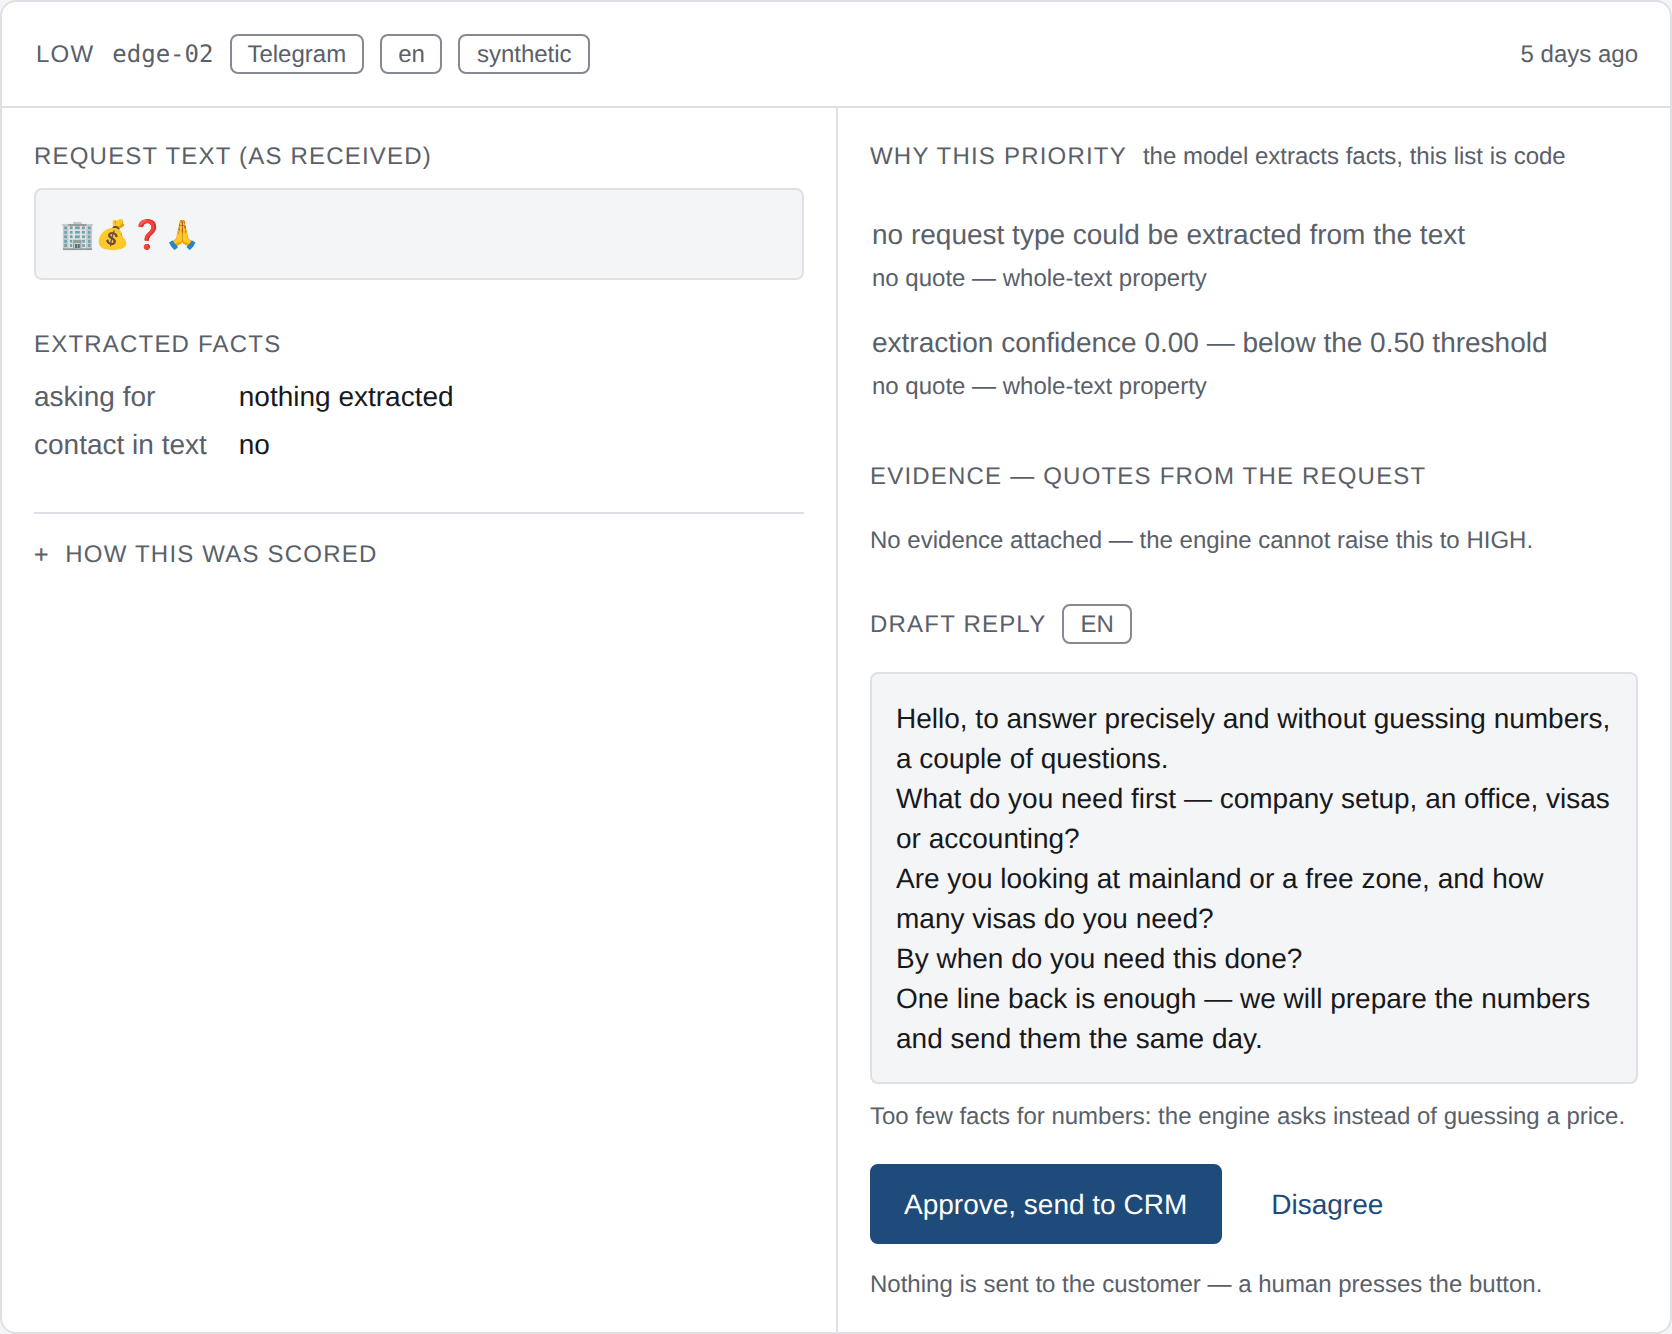
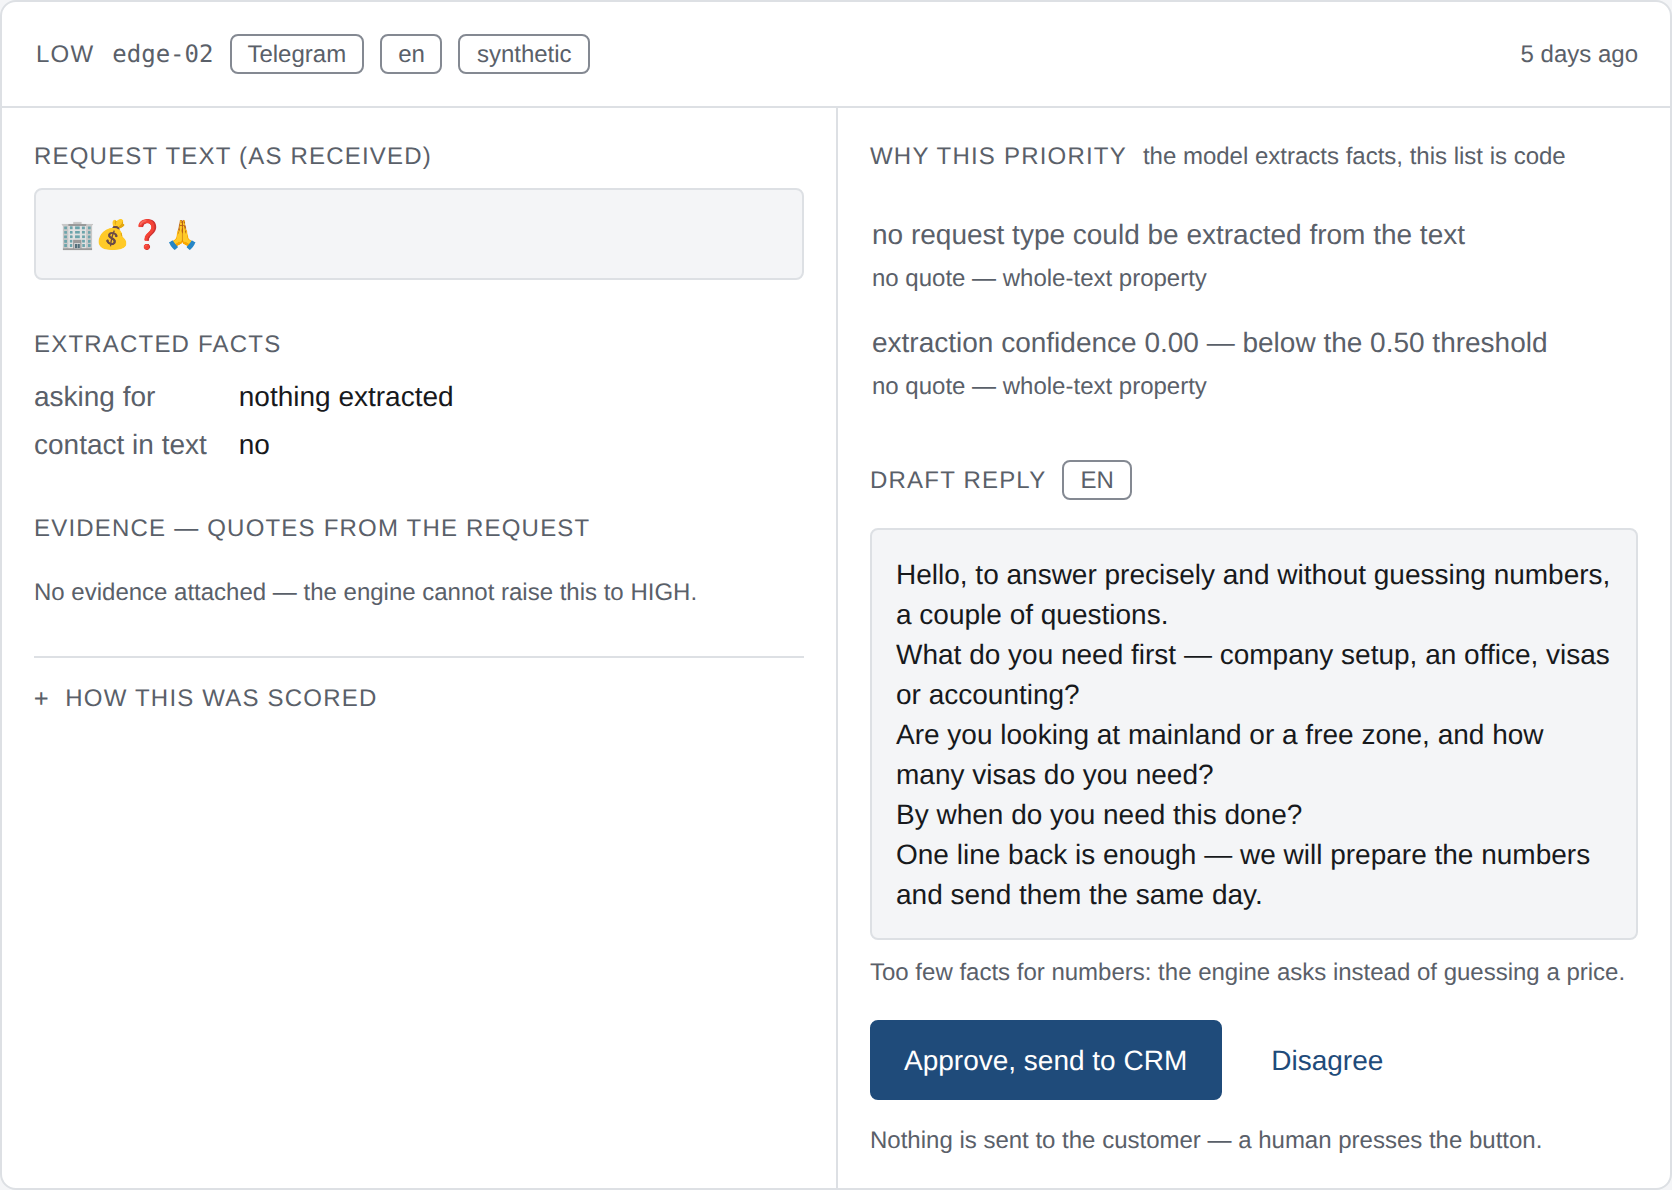
fix(web): цитаты переехали к тексту обращения, карточка перестала пустовать
Половина карточки была белой: левая колонка кончалась на «HOW THIS WAS SCORED», правая
тянулась вдвое ниже. Блок доказательств перенесён под факты — туда, где лежит сам текст,
из которого цитаты взяты и в котором они подсвечиваются по нажатию причины. Пустое место
сократилось примерно вчетверо, а связь «причина → цитата → фрагмент текста» стала видна
на одном экране. Кнопка «all 13» переименована в «show all 13»: счётчик рядом с числом
цитат читался как ещё одно число, а не как действие.

Дата обращения urg-13 сдвинута на 2026-09-09: на карточке стояло «37 days ago» рядом со
словами «urgent, who can call me today». Приоритет от этого не изменился (срок берётся из
текста, «in 21 days»), стенд даёт те же числа.

Все 10 кадров пересняты с текущей сборки и осмотрены глазами.
make test-ci → 622 passed; make lint → All checks passed; make demo → 32 из 32;
стенд → ГОДНО, проверено 106, совпало 103; сверка порта → 144 из 144, подложек 4 из 4;
контраст → 38 проверено, 0 нарушений, 2 без порога.

Claude-Session: https://claude.ai/code/session_014odsbH1wHmd67rLteETy5W

diff --git a/web/components/LeadCard.tsx b/web/components/LeadCard.tsx
@@ -195,6 +195,20 @@ export default function LeadCard({
             </dl>
           </div>
 
+          <div className="section">
+            <div className="section-title-row">
+              <span className="section-title">Evidence — quotes from the request</span>
+              {lead.evidence.length > EVIDENCE_SHOWN ? (
+                <button className="btn-text btn" onClick={() => setAllEvidence((v) => !v)}>
+                  {allEvidence ? "show fewer" : `show all ${lead.evidence.length}`}
+                </button>
+              ) : null}
+            </div>
+            <EvidenceList
+              items={allEvidence ? lead.evidence : lead.evidence.slice(0, EVIDENCE_SHOWN)}
+            />
+          </div>
+
           {/* Инженерное — под одно раскрытие (владелец, 2026-09-10): в основном потоке
               остаётся то, по чему менеджер принимает решение по лиду. Данные не выброшены:
               они честные и нужны техническому зрителю, просто в один клик от карточки. */}
@@ -311,20 +325,6 @@ export default function LeadCard({
                 </ul>
               </div>
             ) : null}
-          </div>
-
-          <div className="section">
-            <div className="section-title-row">
-              <span className="section-title">Evidence — quotes from the request</span>
-              {lead.evidence.length > EVIDENCE_SHOWN ? (
-                <button className="btn-text btn" onClick={() => setAllEvidence((v) => !v)}>
-                  {allEvidence ? "show fewer" : `all ${lead.evidence.length}`}
-                </button>
-              ) : null}
-            </div>
-            <EvidenceList
-              items={allEvidence ? lead.evidence : lead.evidence.slice(0, EVIDENCE_SHOWN)}
-            />
           </div>
 
           <div className="section">
